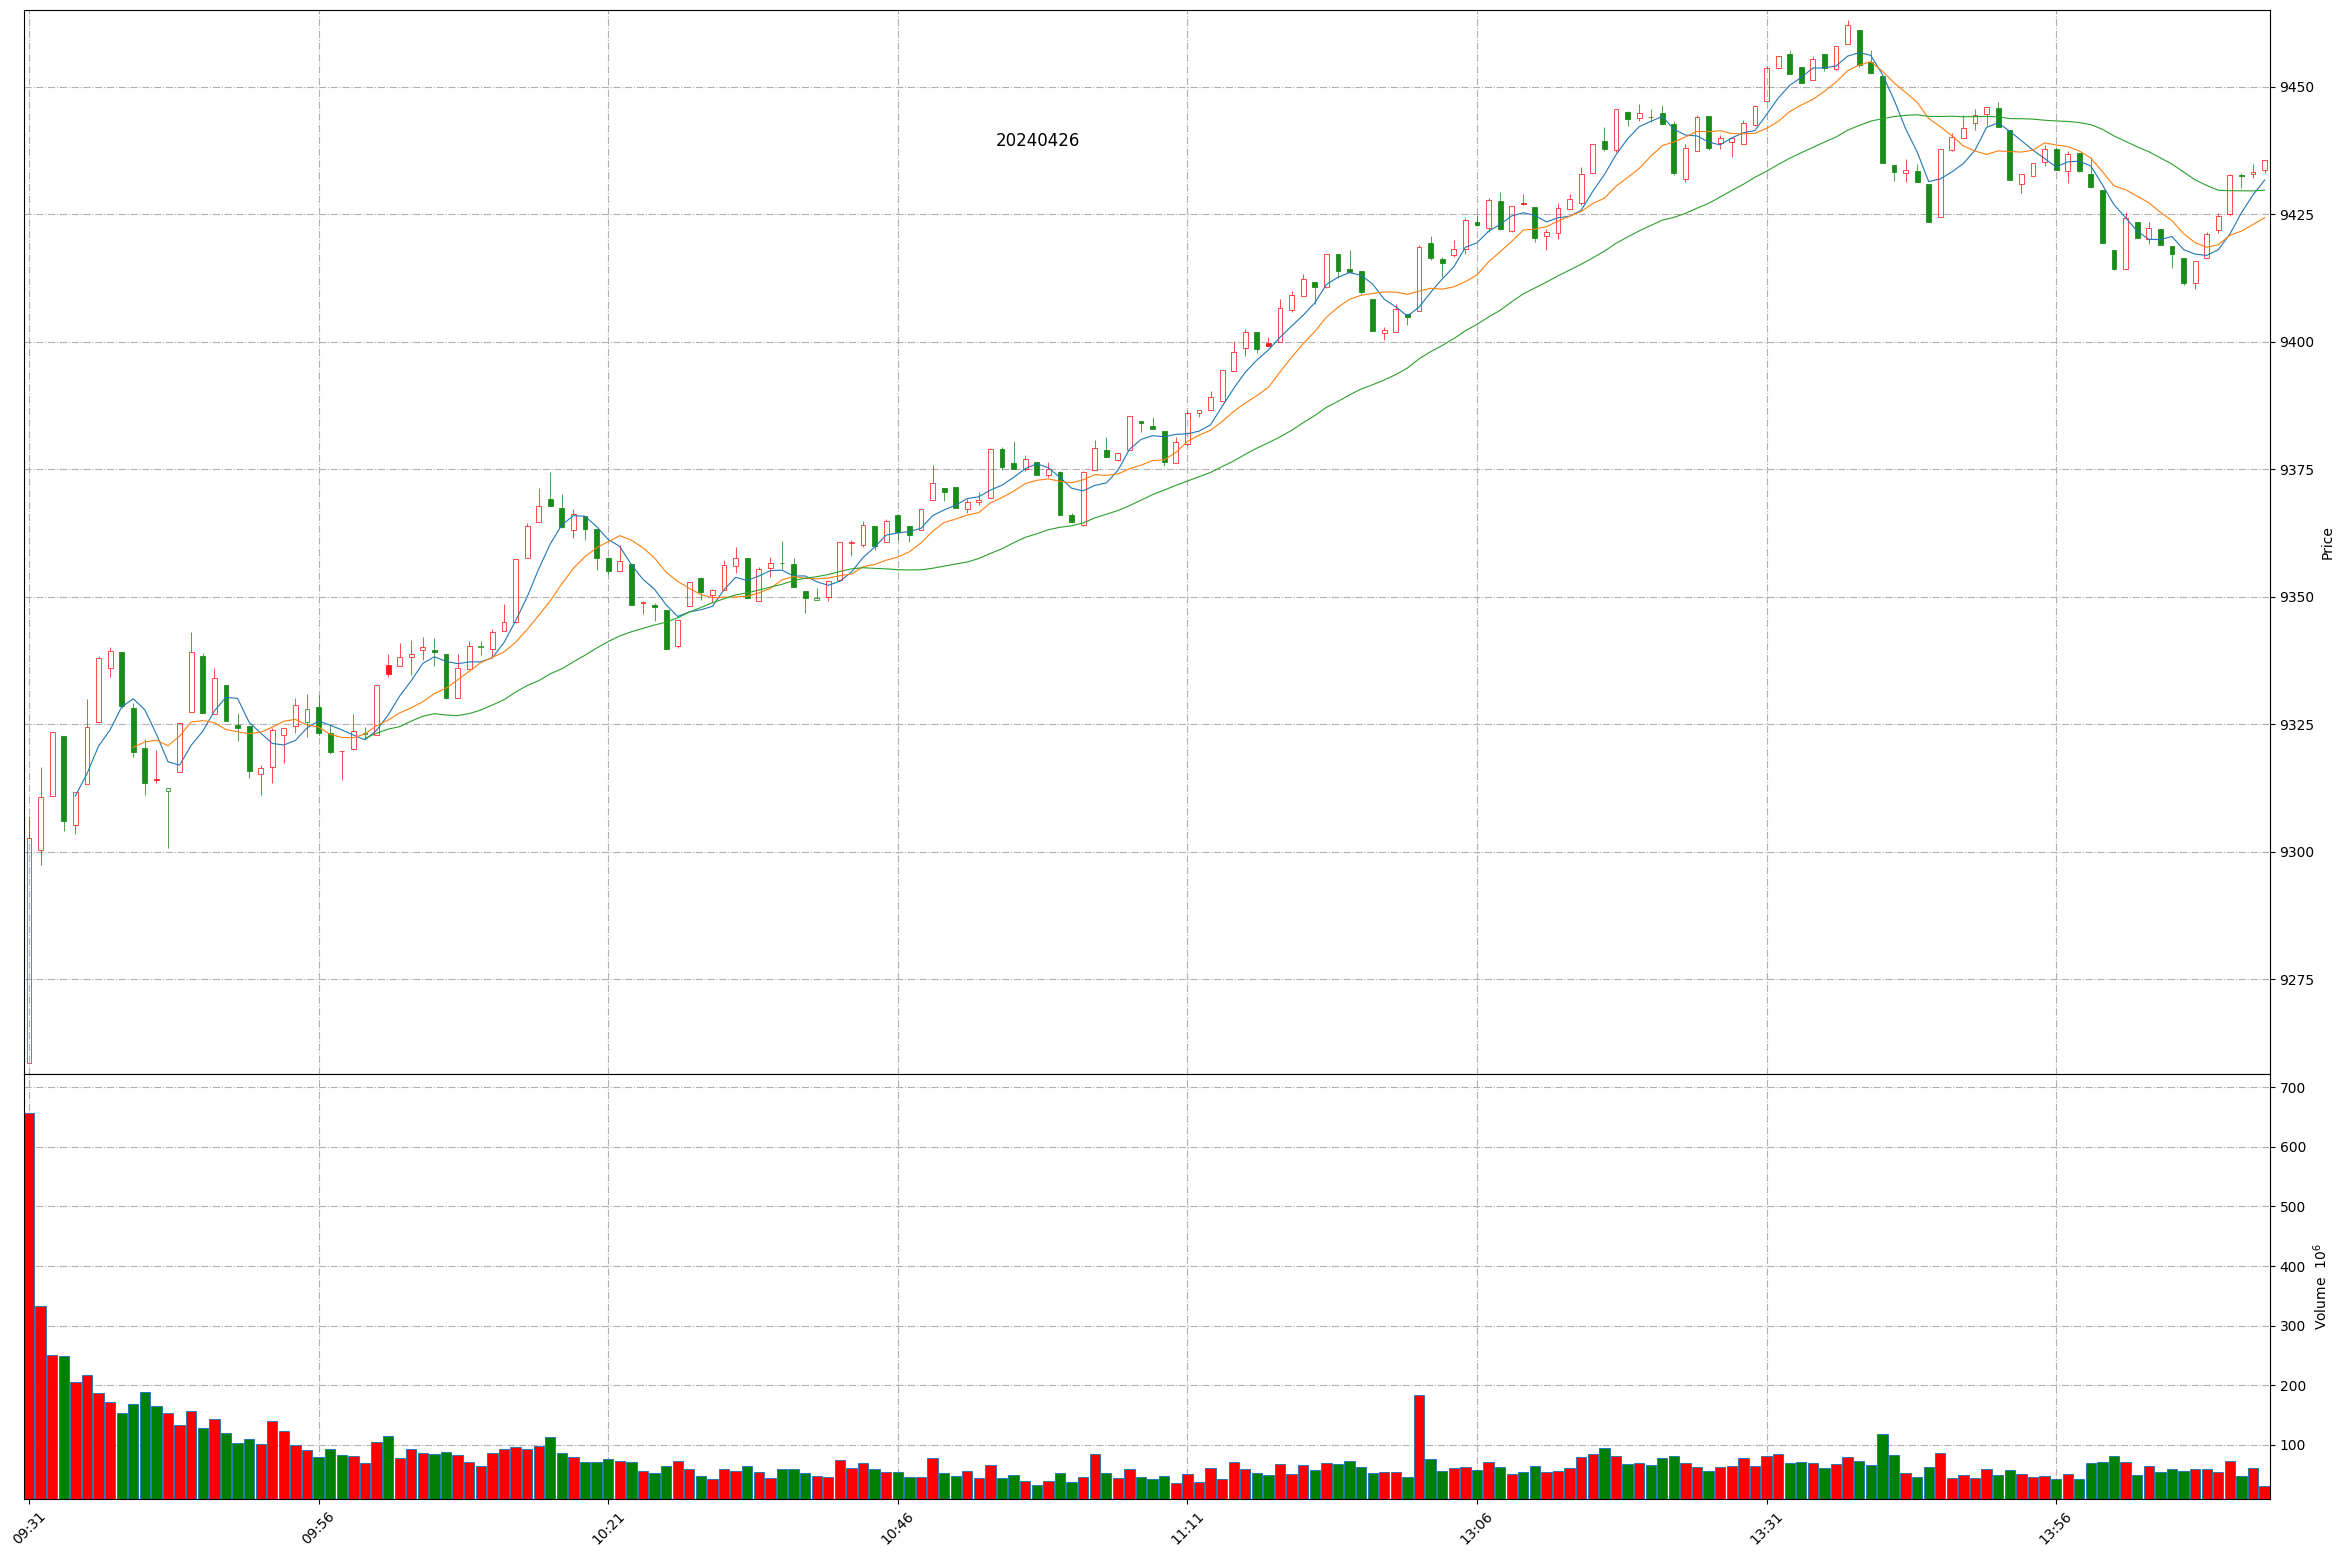
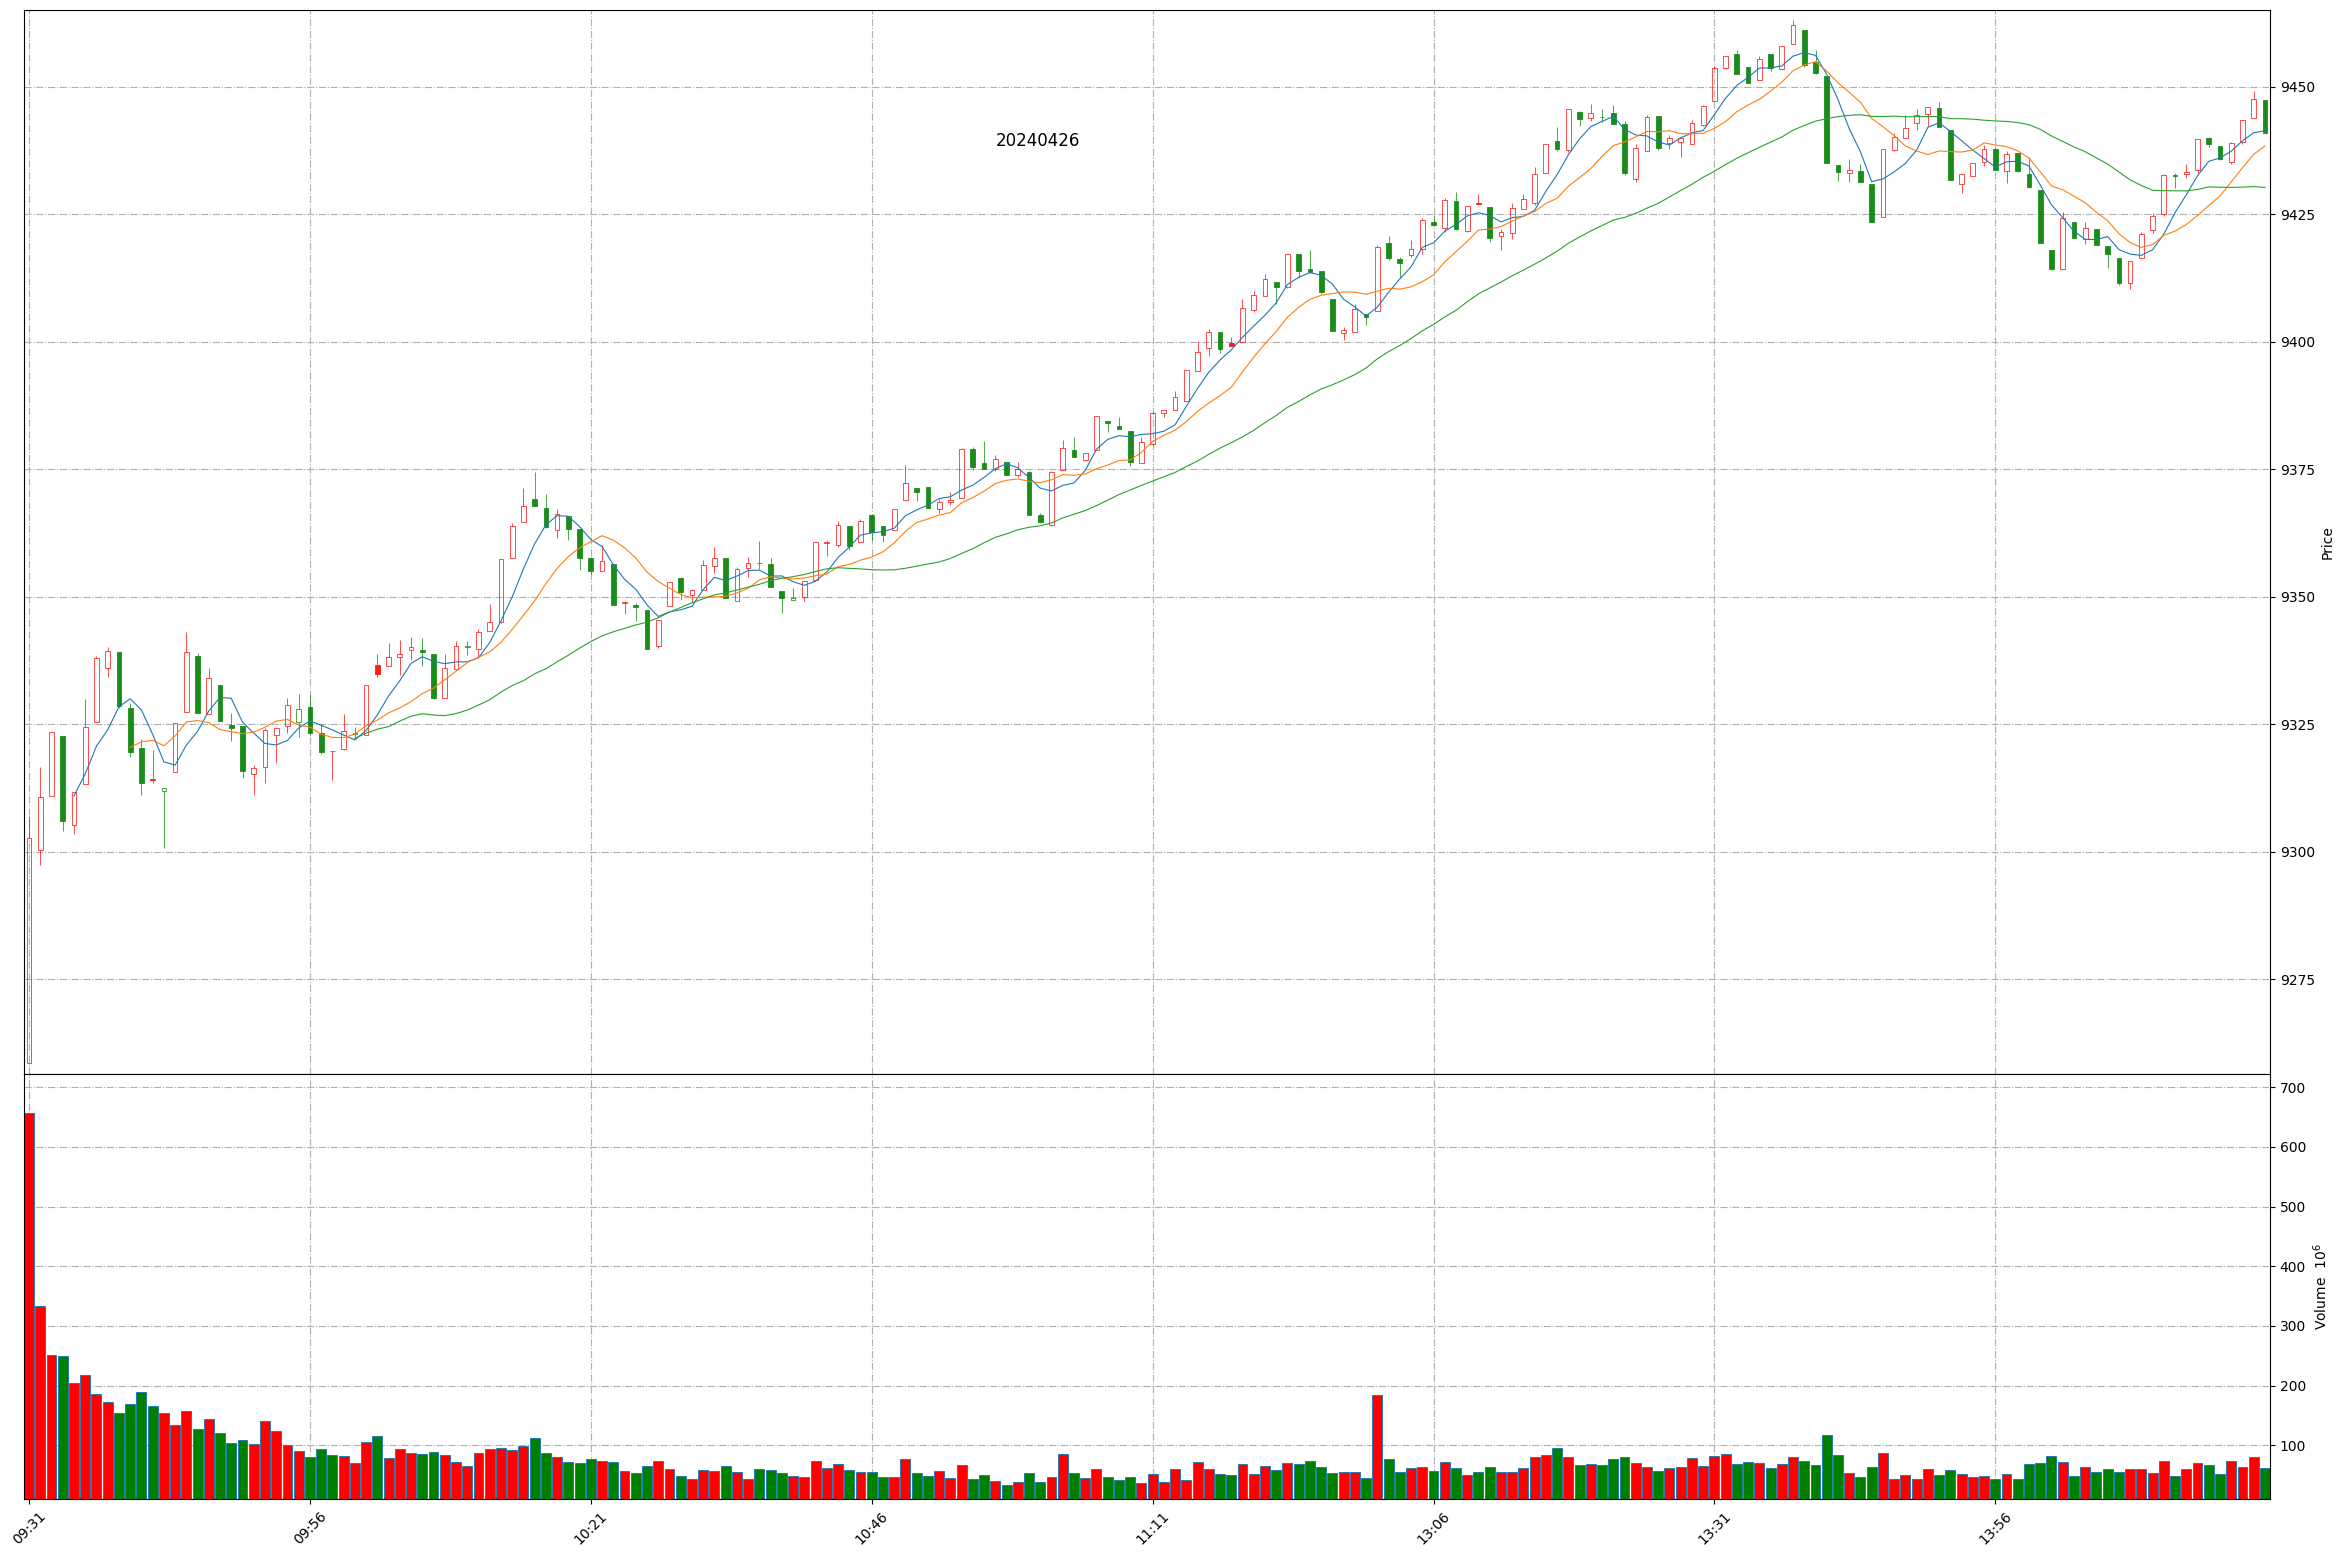
Github action update at 2024-04-26 14:20:19.

Changed region(s): [[0.0, 0.894, 0.9654, 0.9865], [0.218, 0.0308, 0.9654, 0.4316], [0.0311, 0.4008, 0.218, 0.4933]]

diff --git a/README.md b/README.md
@@ -1,11 +1,11 @@
 
 # Daily-A-share-market-quotes 每日 A 股指数（5min 更新）- 20240426
 
-### 上证指数 20240426 14:13
+### 上证指数 20240426 14:20
 ![](./fig/2024/4/20240426-sh000001.png)
 
-### 深证成指 20240426 14:13
+### 深证成指 20240426 14:20
 ![](./fig/2024/4/20240426-sz399001.png)
 
-### 北证50 20240426 14:13
+### 北证50 20240426 14:20
 ![](./fig/2024/4/20240426-bj899050.png)
